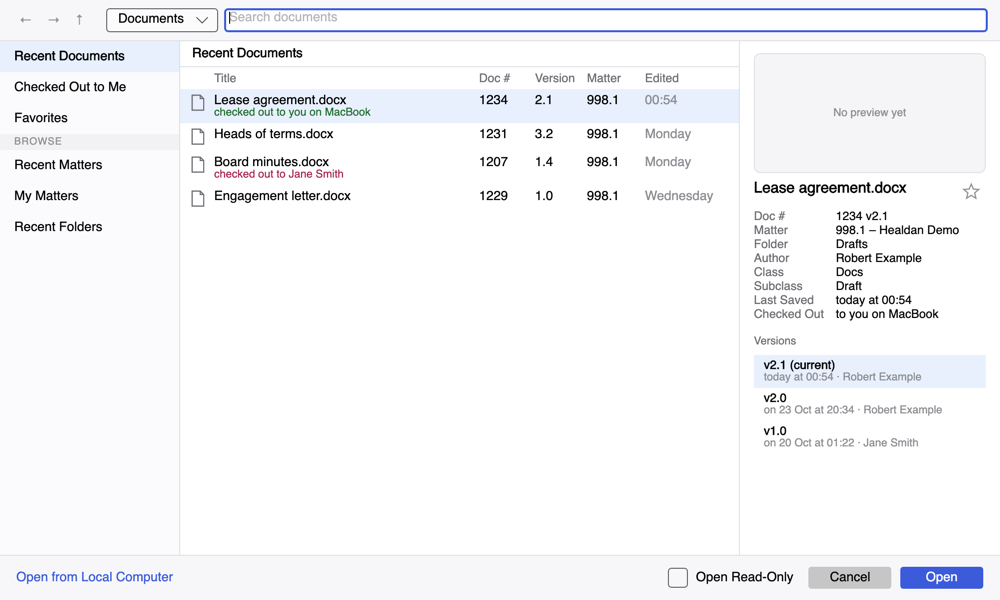
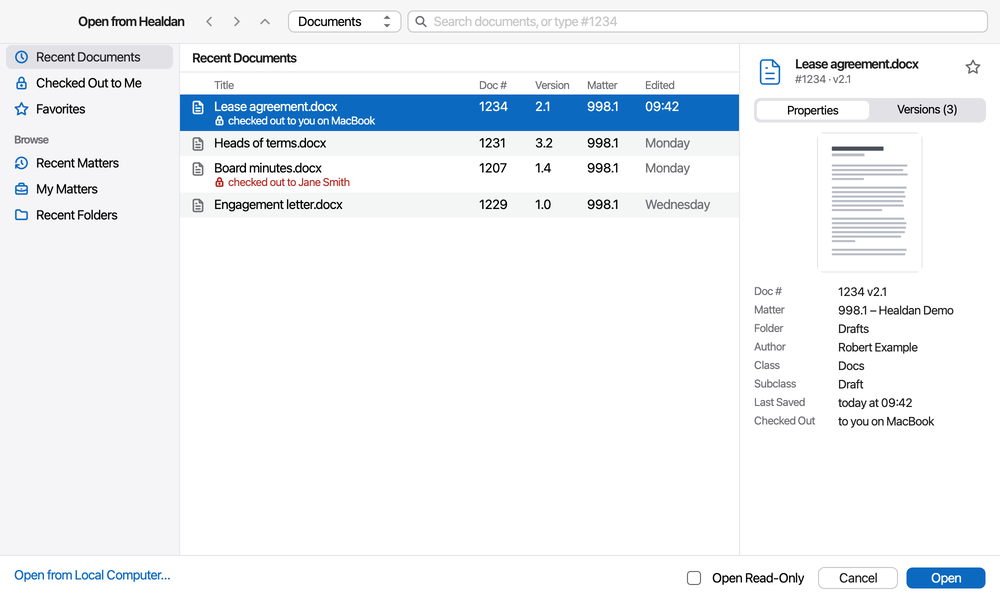
Document the helper's new look
The User Guide's seven pictures of the helper's windows are drawn again from
the polished windows (the light renders, halved to the site's 1x size as in
M3), with alt text for what they show now: the mark on Sign In and the alerts,
Settings' three groups, Open's details in Properties and Versions tabs, and
Save's File Format pop-up.

The pages say what changed in use. Installing the Helper explains the menu bar
icon's dot and Settings' Install… button. Opening Documents describes the new
details pane, the Older version warning, the doc # hint in the search box and
the ellipsis on Open from Local Computer…. Saving to Healdan calls the format
File Format and notes the matching ellipsis, and When Things Go Wrong says the
dot stays until you choose a crashed document.

The Developer Guide and CLAUDE.md say where the look lives (the style tokens,
Tabler's icons and the script that writes them, the menu bar icon drawn from
the mark) and which tests guard it (IconsTests, AttentionTests).

The plan's status and decision log record the calls made while building Tasks
1-9, the owner's decisions at the review, and the letter-spacing follow-up.

diff --git a/docs/superpowers/plans/2026-10-27-helper-ui-polish.md b/docs/superpowers/plans/2026-10-27-helper-ui-polish.md
@@ -17,7 +17,7 @@
 
 **Spec:** [`docs/superpowers/specs/2026-10-27-helper-ui-polish-design.md`](../specs/2026-10-27-helper-ui-polish-design.md), approved by the owner on 2026-10-27, with its mockups in [`2026-10-27-helper-polish-mockups/`](../specs/2026-10-27-helper-polish-mockups/). Every § below points into it. Where the two disagree, the spec wins, except for "Spec corrections and calls this plan makes".
 
-**Status:** written 2026-10-27; not started.
+**Status:** Tasks 1–9 built on 2026-10-27; PR 1 not yet opened.
 
 ## Global Constraints
 
@@ -2797,7 +2797,36 @@ Every call made while building, in order. "Where" is the task or review that rai
 
 | Date | Where | Decision | Why | Cost if wrong |
 |---|---|---|---|---|
+| 2026-10-27 | Task 1 | Tabler 3.50.0's 30 SVGs and its licence came from `cdn.jsdelivr.net/npm/@tabler/icons@3.50.0/`, with the owner's approval, not from `npm pack` | npm isn't installed here, and jsDelivr serves the npm package's own files | nothing: the files are byte-identical to the tarball's |
+| 2026-10-27 | Task 1 | Each commit's trailer names the model that did the work (subagents on Sonnet sign "Claude Sonnet 5.5"), not the plan's single trailer | accurate attribution matters more than one name on every commit | a reword if the owner wants one name |
+| 2026-10-27 | Task 1 | Every implementer runs `dotnet build clients/helper/Healdan.Helper.sln` as well as `dotnet test` | `dotnet test` doesn't compile the app project, which Task 1 found | nothing |
+| 2026-10-27 | Task 2 | Text inside a grey selection (the places list, the Versions pill, a rows list without focus) takes `HdTextBrush`, while icons keep their colours | keeps spec §4.1's AA promise without changing the approved tokens, and icons need only 3:1 | a style tweak if the owner prefers darker tokens instead |
+| 2026-10-27 | Task 2 | `App.axaml`'s two FluentTheme palette accents are the one place a hex colour may sit outside `HelperStyles.axaml` | Fluent's palette can't take a resource | nothing |
+| 2026-10-27 | Task 4 | The by-hand title bar check (Task 4, Step 11), and Task 2's check that the list's banding holds while it scrolls, move to Task 14 | subagents can't see the screen | a later fix if the unified title bar misbehaves; spec §13's fallback stands |
+| 2026-10-27 | Task 4 | The search box takes the toolbar's spare width (a star column, `MinWidth` 200) instead of a fixed 320 pt | spec §6.2 says "at least 200 pt", and the hint must be visible within a matter | a width tweak if the owner prefers Finder's fixed field |
+| 2026-10-27 | Task 4 | The scope pop-up sits next to the chevrons, with the search box filling the rest, instead of far right as in the mockup | the hint's visibility outweighs the mockup's spacing; raised for the owner's review in Task 9, which kept it (below) | a spacer and a `MaxWidth` if the owner prefers the mockup |
+| 2026-10-27 | Task 5 | Step 4's keyboard check moves to Task 14 with the other by-hand checks | subagents can't see the screen | a later fix if keyboard reach is broken |
+| 2026-10-27 | Task 5 | The details tabs handle Left and Right in a `KeyDown` handler that moves `SelectedIndex` | `UniformGrid` isn't a navigable container, so the arrow keys never reached Versions; the grid keeps the segments equal | a `NavigableUniformGrid` if a reviewer prefers it |
+| 2026-10-27 | Task 5 | The favourite star in the details header stays hidden until the document's details have loaded | restores how the window behaved before the task | nothing |
+| 2026-10-27 | Task 5 | New token `HdCautionTextBrush` (`#9A5B00` light, `#F5A623` dark) for Caution text, with `HdCautionBrush` kept for icons | amber text on the window needs a darker shade to meet AA, and icons need only 3:1; Task 13 adds it to spec §4.1's table | a colour tweak if the owner dislikes the darker amber |
+| 2026-10-27 | Task 6 | The calendar date picker is brought to the 22 pt field height | Task 6 owns Save's and Properties' forms, spec §4.3 sets 22 pt fields, and Task 2 had deferred it | a revert if the template resists |
+| 2026-10-27 | Task 6 | Read-only values (`SelectableTextBlock.value`) take `IsTabStop=false` and stay focusable, not `Focusable=false` | macOS's selectable labels aren't in the key-view loop. `Focusable=false` was the first ruling, but the implementer's test showed it loses keyboard copy, where `IsTabStop=false` keeps mouse selection, the context menu's Copy and Ctrl or Cmd+C | nothing |
+| 2026-10-27 | Task 7 | About's `VersionText` and `ServerText` also take `IsTabStop=false` | the same Tab-stop issue Task 6 fixed, and Task 7 owns About | nothing |
+| 2026-10-27 | Task 7 | Step 11 (Install… by hand) moves to Task 14 | subagents can't see the screen | a later fix if the wiring fails in the packaged app |
+| 2026-10-27 | Task 7 | About widens from 400 to 440 pt | its three links (Healdan Docs, the licence and Open-Source Notices) don't fit in a row at 400, and the spec gives no width | nothing |
+| 2026-10-27 | Task 7 | Settings' status dot gets two tokens, `HdOnBrush` (`#28A745` light, `#30D158` dark) and `HdOffBrush` (`#8E8E93` in both) | spec §4.1's table leaves the dot's colours to the builder, so they're listed here and not there | a colour tweak |
+| 2026-10-27 | Task 7 | Spec §6.6's "LogicalDOC's credit included" is an error: About keeps its copyright line unchanged | the helper's `About.Copyright` never had a LogicalDOC credit. It's the web GUI's (`HealdanCredits.java`), and the helper is Healdan's own .NET code. Task 13 corrects §6.6 | a credit line if the owner wants one |
+| 2026-10-27 | Task 8 | The by-hand menu bar check (Step 9) moves to Task 14, and the implementer renders the four icons headless instead | subagents can't see the screen | a later tweak of the dot's geometry |
+| 2026-10-27 | Task 8 | The attention dot sits at (226, 34) in the mark's 260-unit square, with a radius of 30 and a ring of 44, where the plan had (214, 46), 38 and 56 | the plan's ring cut the shield's shoulder and opened the back page in the renders; this one cuts the shoulder only. The plan allowed tuning | a retune after the owner's menu bar check in Task 14 |
+| 2026-10-27 | Task 9 | Task 9 splits at its owner gate: a subagent does Step 1 (the renderer's data and the renders), the controller runs Step 2 (the owner's review), and a second subagent does Steps 3–7 after approval. Step 8, the PR, waits for the owner's go-ahead | the owner's review can't be delegated | nothing |
+| 2026-10-27 | Task 9 | The clipped trailing "…" (Install…, Open from Local Computer…, Save to Local Computer…) is fixed before the owner's review, as its own fix with its own review | it was likely real on the Mac too (same Skia and font), and visible on three controls | one small commit |
+| 2026-10-27 | Task 9, ellipsis fix | One style turns `ClipToBounds` off for text blocks (`AccessText` and `SelectableTextBlock` included) and buttons (26e7a7232) | HarfBuzz lays San Francisco out at the font's default Display optical size (28), but Skia draws it through CoreText at Text size, so the glyph's ink runs about 1.7 pt past the box it was measured into. Avalonia 12 clips every `TextBlock` and templated control to its bounds, so the last dot of "…" was cut off. Nothing is laid out differently: across the 22 renders only the restored dots, and the odd last pixel column of a word, changed | the dots clip again if the style goes; the real Mac is only checked in Task 14 |
+| 2026-10-27 | Task 9, ellipsis fix | Text that used to be cut off at a fixed cell's edge now trims with "…" and keeps 4 pt clear of its neighbour (9e2bed4b9): Open's detail labels, its Doc #, Version and Matter cells, Save's Version and Doc # cells, and Settings' Address, whose value is now right-aligned in the star column and trimmed | with no clipping, text runs into the next cell. "Client Reference Number" (an administrator names a property) printed over its value, an 8-digit doc # over the Version, and a long host took all of the Address row. A 7-digit doc # still fits (51.4 pt in 52) | a width tweak if the 4 pt is wrong |
+| 2026-10-27 | Owner's review | The owner approved the after-renders of all ten windows, light and dark, with one change: Sign In's keychain line wrapped and left "password." alone, so it's capped at 300 pt and centred, and breaks as "…in the keychain," and "never your password." (8be87be0e) | the owner's call; the words and the size are unchanged | nothing |
+| 2026-10-27 | Owner's review | The scope pop-up stays beside the chevrons, as built | the owner accepted the hint's visibility over the mockup's spacing | a spacer and a `MaxWidth` |
+| 2026-10-27 | Owner's review | The letter spacing left by the optical-size mismatch above is a follow-up, not part of PR 1 | the owner's call at the review. It's in Follow-ups | nothing now |
+| 2026-10-27 | Task 9 | The docs' seven pictures are the light renders halved to the site's 1× size (420 to 1000 px wide), not the renderer's 2× files | the site's pictures were halved in M3 (its log, 2026-10-25), so each window shows at its real size in the page | 2× copies if the owner wants sharper pictures; no file name changes |
 
 ## Follow-ups
 
-None yet.
+- **Letter spacing in the helper's San Francisco type** (owner, at Task 9's review). HarfBuzz lays the font out at its default Display optical size (28) while Skia draws it at Text size, so the spacing doesn't match the glyphs drawn. The ellipsis fix (26e7a7232) stops the overhang clipping but leaves the spacing as it is. Look for a way to make layout and drawing agree (the font's optical-size axis, or another text-measuring path), and check the packaged app on the Mac in Task 14, since the renders and the app share Skia and the font.

diff --git a/site/content/user/office/installing-the-helper/index.md b/site/content/user/office/installing-the-helper/index.md
@@ -42,6 +42,9 @@ checked by Apple, so macOS doesn't warn about it otherwise.
 
 Healdan's icon appears in the menu bar. The helper has no Dock icon, and shows a window only when it needs you.
 
+A dot on the icon means the helper needs you: you're signed out, it couldn't start, a document closed unexpectedly, a
+copy is Not Yet in Healdan, or LibreOffice's extension isn't installed. Point at the icon to see which.
+
 ### Sign In
 
 The Sign In to Healdan window opens: see [The Sign In Window](#the-sign-in-window). Once you're signed in,
@@ -55,7 +58,7 @@ The helper for Ubuntu isn't ready yet. Until it is, Healdan works in LibreOffice
 
 ## The Sign In Window
 
-![The Sign In to Healdan window: Server Address https://healdan.example, empty Username and Password fields, and the Cancel and Sign In buttons](sign-in.png)
+![The Sign In to Healdan window: Healdan's mark above the title and a line saying the helper keeps a sign-in in the keychain, never your password; then Server Address https://healdan.example, empty Username and Password fields, and the Cancel and Sign In buttons](sign-in.png)
 
 Type the server's address, your username and your password, and choose **Sign In**.
 
@@ -124,18 +127,23 @@ Click Healdan's icon in the menu bar.
 
 ## Settings
 
-![The Healdan Helper Settings window: the server https://healdan.example, read-only; Documents, Spreadsheets and Presentations each opening in LibreOffice; Start at Sign-In on; and the LibreOffice extension's version](settings.png)
+![The Healdan Helper Settings window in three groups: Server, with the address healdan.example; Open Each Kind of File In, with Documents, Spreadsheets and Presentations, each with its file extensions and opening in LibreOffice; and This Computer, with Start at Sign-In On and the LibreOffice Extension's version and when it was installed](settings.png)
 
-- **Server:** the server the helper is signed in to. To use another, sign out, then sign in with its address.
-  Before you do, close your documents, and check the menu shows no saves waiting and nothing Not Yet in Healdan.
-  Any local copies left from the old server are moved to a folder of their own beside `Copies`, such as
-  `Copies from healdan.example`, and a notice says so. The helper never sends them to the new server, where the
-  same doc # can be a different document.
-- **Open Each Kind of File In:** documents, spreadsheets and presentations open in LibreOffice. Other files, such as
-  PDFs, open read-only in your Mac's usual app for them.
-- **Start at Sign-In:** after your first sign-in, the helper starts whenever you sign in to your Mac. To stop it,
-  turn it off in **System Settings › General › Login Items & Extensions**.
-- **LibreOffice Extension:** the version installed, or what to do to install it.
+Settings has three groups:
+
+- **Server:** the server the helper is signed in to, as its name, such as `healdan.example`. To use another, sign
+  out, then sign in with its address. Before you do, close your documents, and check the menu shows no saves waiting
+  and nothing Not Yet in Healdan. Any local copies left from the old server are moved to a folder of their own
+  beside `Copies`, such as `Copies from healdan.example`, and a notice says so. The helper never sends them to the
+  new server, where the same doc # can be a different document.
+- **Open Each Kind of File In:** a row each for documents, spreadsheets and presentations, with the file extensions
+  it covers. They open in LibreOffice. Other files, such as PDFs, open read-only in your Mac's usual app for them.
+- **This Computer:**
+  - **Start at Sign-In:** On or Off. After your first sign-in, the helper starts whenever you sign in to your Mac.
+    To stop it, turn it off in **System Settings › General › Login Items & Extensions**.
+  - **LibreOffice Extension:** the version installed, and when it was installed, or **Not Installed**. While the
+    extension isn't installed, **Install…** asks LibreOffice to add it, as the menu's **Install the LibreOffice
+    Extension…** does.
 
 ## About Healdan Helper
 
@@ -146,7 +154,7 @@ Choose **About Healdan Helper** in the helper's menu.
 - **Copy for Support** copies the helper's version, your Mac's, and the server with its version, as one line to
   paste into an email or an issue.
 - **Healdan Docs** opens these pages, and **Licence: GNU LGPL v3** the licence the helper is free software under.
-- **Open-Source Notices…** lists the open-source software the helper is built with, and each one's licence.
+- **Open-Source Notices** lists the open-source software the helper is built with, and each one's licence.
 
 ## Signing Out
 

diff --git a/site/content/user/office/opening-documents/index.md b/site/content/user/office/opening-documents/index.md
@@ -34,24 +34,32 @@ Double-clicking a document in the web page still shows its preview.
 Any of LibreOffice's ways of opening shows the **Open from Healdan** window: **⌘O**, **File › Open**, **Open File**
 in the Start Center, and **Healdan › Open from Healdan…**. So does **Open from Healdan…** in the helper's menu.
 
-![The Open from Healdan window: Recent Documents listed in the middle, Lease agreement.docx selected and checked out to you on MacBook, and its details, properties and versions on the right](open-from-healdan.png)
+![The Open from Healdan window: Recent Documents listed in the middle, Lease agreement.docx selected and checked out to you on MacBook, and its details on the right, under a header with its name, #1234 and v2.1, and Properties and Versions tabs, with Properties showing](open-from-healdan.png)
 
 - **On the left:** Recent Documents (where it starts), Checked Out to Me and Favorites, then Recent Matters, My
   Matters and Recent Folders to browse.
 - **In the middle:** each document's title, doc #, version, matter, and when it was last saved. Under the title,
   who has it checked out: "checked out to you on MacBook", or "checked out to Jane Smith".
-- **On the right:** a small preview of the first page ("No preview yet" until Healdan has made one), the main
-  properties, and the versions. The star adds the document to your Favorites, or takes it off.
+- **On the right:** the selected document's details. A header names it, with its doc # and version, as in
+  `#1234 · v2.1`. Its star adds the document to your Favorites, or takes it off. Two tabs sit under the header:
+  - **Properties,** where each Open window starts, shows a small preview of the first page, when Healdan has made
+    one, and the document's main properties.
+  - **Versions** lists the document's versions, the number of them in brackets.
+
+  The tab stays as you left it while you choose other documents. Before you choose a document, the pane asks you to.
 - **To find a document,** type in the search box: it searches documents, unless you choose another scope beside it.
-  `#1234` and Enter shows document 1234, and `#1234 v2.1` selects that version.
+  `#1234` and Enter shows document 1234, and `#1234 v2.1` selects that version. That's what the box's hint, ", or
+  type #1234", means. It shows while you search documents, but a typed doc # works from any scope.
 - **To open it,** double-click it, or select it and choose **Open**.
 
 At the bottom:
 
 - **Open Read-Only:** tick it, then choose **Open**, for a copy you can read but not save to Healdan, even if you
   could edit it.
-- **An older version** always opens read-only: choose it in the versions list.
-- **Open from Local Computer** shows LibreOffice's own Open box, for a file on your Mac.
+- **An older version** always opens read-only: choose **Versions** above the details, then the version in the list.
+  The header then shows that version, with the warning **Older version: opens read-only**, and Open Read-Only is
+  ticked for you. Choosing another document goes back to its current version.
+- **Open from Local Computer…** shows LibreOffice's own Open box, for a file on your Mac.
 
 ## What Happens When It Opens
 
@@ -79,7 +87,7 @@ instead, which files your changes as a new document (see
 
 If you have the document checked out on another of your computers, the helper asks first:
 
-![The Checked Out on Another Computer window: #1234 is checked out to you on MacBook (LibreOffice), when it was last saved to Healdan, a warning that edits on MacBook that haven't reached Healdan won't be in this copy, and the Open Read-Only, Edit Here Instead and Cancel buttons](checked-out-on-another-computer.png)
+![The Checked Out on Another Computer window: Healdan's mark with a warning triangle, then #1234 is checked out to you on MacBook (LibreOffice), when it was last saved to Healdan, a warning that edits on MacBook that haven't reached Healdan won't be in this copy, and the Open Read-Only, Edit Here Instead and Cancel buttons](checked-out-on-another-computer.png)
 
 - **Open Read-Only** opens a read-only copy here, and leaves the check-out where it is.
 - **Edit Here Instead** moves the check-out to this computer and opens the document for editing. What you saved on

diff --git a/site/content/user/office/saving-to-healdan/index.md b/site/content/user/office/saving-to-healdan/index.md
@@ -17,7 +17,7 @@ On a document that isn't in Healdan yet, any of these opens Save to Healdan:
 - **Healdan › Save to Healdan…**, or **Save to Healdan** on the Healdan toolbar;
 - **Save** when LibreOffice asks whether to save your changes as you close the document.
 
-![The Save to Healdan window: places on the left, matter 998.1 – Healdan Demo's Documents folder in the middle with its Drafts folder selected, and the new document's properties on the right, with OpenDocument Text (.odt) chosen as the format](save-to-healdan.png)
+![The Save to Healdan window: places on the left, matter 998.1 – Healdan Demo's Documents folder in the middle with its Drafts folder selected, and the new document's properties on the right, with a File Format pop-up under the properties showing OpenDocument Text (.odt)](save-to-healdan.png)
 
 ## Choosing a Folder
 
@@ -62,8 +62,8 @@ your bookmarks in the web page, apart from your matters, which are My Matters. S
 
 ## The Properties
 
-The right of the window holds the new document's properties, mostly filled in from the folder you chose. Required
-ones are marked with a red star.
+The right of the window, headed **New Document Properties**, holds the new document's properties, mostly filled in
+from the folder you chose. Required ones are marked with a red star.
 
 - **Name:** the document's name. It starts from the name LibreOffice gave it, or the file's name if it was saved on
   your Mac before. Healdan adds the extension.
@@ -77,9 +77,10 @@ ones are marked with a red star.
 
 See [Properties](../../working-with-matters/properties/) for what each one holds.
 
-## The Format
+## The File Format
 
-Below the properties, choose the file format. The app's own comes first, and is chosen until you change it:
+Below the properties, the **File Format** pop-up chooses the file format. The app's own comes first, and is chosen
+until you change it:
 
 | App | Its own format | The other |
 |---|---|---|
@@ -101,7 +102,7 @@ version: `Lease agreement #1235 v1.0`.
 
 ## Saving to Your Mac Instead
 
-**Save to Local Computer**, at the bottom left, shows LibreOffice's own Save As box instead. A document saved there
+**Save to Local Computer…**, at the bottom left, shows LibreOffice's own Save As box instead. A document saved there
 isn't in Healdan. Choose **Healdan › Save to Healdan…** whenever you want to file it.
 
 ## If It Doesn't Work

diff --git a/site/content/developer/desktop-clients.md b/site/content/developer/desktop-clients.md
@@ -35,6 +35,11 @@ app.
 - **`Healdan.Helper`** is the Avalonia 12 app: the menu-bar icon (`Tray/`), the windows (`Windows/`), and macOS's
   notifications, login item and extension install (`Platform/`). It stays out of the Dock (`LSUIElement`) and hands
   the focus back after each window.
+  - **The look** (polish spec, `docs/superpowers/specs/2026-10-27-helper-ui-polish-design.md`): the tokens and
+    control styles are in `Windows/HelperStyles.axaml`, over Fluent. The icons are Tabler's, in
+    `Windows/HelperIcons.axaml`, which `python3 clients/icons/write-helper-icons.py` writes from
+    `clients/icons/tabler/` (`IconsTests` fails until it's run). The menu bar icon is drawn at run time from
+    `HealdanMark`'s shapes (`Tray/TrayIcons.cs`).
 - **`Healdan.Helper.Core.Tests`** is xUnit.
 
 ### The Cycle
@@ -224,6 +229,9 @@ through `channel.json`, and quits.
   helper moves to a new .NET release.
 - **`MarkTests`** fail when About's mark, `Windows/HealdanMark.axaml`, and the docs site's `site/static/favicon.svg`
   draw different shapes.
+- **`IconsTests`** fail when `Windows/HelperIcons.axaml` and the SVGs in `clients/icons/tabler/` draw different
+  shapes. After adding or changing an icon, run `python3 clients/icons/write-helper-icons.py`.
+- **`AttentionTests`** pin when the menu bar icon shows its dot, and the reason its tooltip gives.
 - **The extension's tests** cover `healdan_logic.py` with fakes for LibreOffice, and build the `.oxt` and check that
   its files agree. A real LibreOffice isn't part of them.
 
@@ -241,7 +249,8 @@ the steps and the secrets.
 - **The icon,** `AppIcon.icns`, is Healdan's mark from the docs site's `site/static/favicon.svg` on macOS's rounded
   square. `clients/helper/packaging/mac/make-icon.swift` draws it each time `package.sh` runs, so changing the
   favicon changes the helper's icon too. About's mark is the same shapes in XAML, as Avalonia doesn't read SVG, and
-  `MarkTests` fails until it's redrawn.
+  `MarkTests` fails until it's redrawn. The menu bar icon follows the mark too: it's drawn at run time from
+  `HealdanMark`'s shapes, in one colour.
 - **The version** is the helper's own, from its tag. The helper checks `GET /server`'s `apiVersion`, and refuses a
   server whose API it doesn't speak.
 - **The login item:** after its first sign-in, the installed helper registers itself to start at sign-in, with

diff --git a/CLAUDE.md b/CLAUDE.md
@@ -152,6 +152,8 @@ Core's `plugin.xml` defines the extension points other plugins hook into: `DbIni
   - Put anything testable in `Healdan.Helper.Core`, which has no windows and which `Healdan.Helper.Core.Tests` drives, and the extension's logic in `healdan_logic.py`, which the tests run without LibreOffice.
   - On macOS the helper never runs `unopkg`, which can't install the extension there: it opens its `.oxt` in LibreOffice for the user to accept.
   - The helper's macOS icon is the docs site's `site/static/favicon.svg` on macOS's rounded square, which `clients/helper/packaging/mac/make-icon.swift` draws each time `package.sh` runs. Changing the favicon changes it too, and fails `MarkTests` until About's mark (`Windows/HealdanMark.axaml`) is redrawn.
+  - The menu bar icon is the same mark, drawn in one colour at run time from `HealdanMark`'s shapes (`Tray/TrayIcons.cs`), so it follows the favicon with About's mark.
+  - The helper's icons are Tabler's, in `clients/icons/tabler/`. `python3 clients/icons/write-helper-icons.py` writes `HelperIcons.axaml` from them, and `IconsTests` fails until it's run after an icon is added or changed.
   - `clients/helper/Healdan.Helper/THIRD-PARTY-NOTICES.txt` is About's Open-Source Notices. `NoticesTests` fails when its `Packages:` lines and the packages the helper restores differ, ids and versions both, so a package added or moved needs its notice.
 - **`HealdanHooks`** (`logicaldoc-core/.../core/HealdanHooks.java`, fork-owned) lets CE code that bypasses the listeners call Healdan before it writes. Examples are the JDBC restores, `deleteTree` and `applySecurityToTree`, and the moves, renames, updates, merges and copies that write before a listener could refuse. `healdan-core` registers the implementation.
   - Every Healdan veto throws `HealdanVetoException` or a subclass. The document and folder DAOs roll back on it alone; a plain `PersistenceException` still commits.

diff --git a/site/content/user/office/when-things-go-wrong/index.md b/site/content/user/office/when-things-go-wrong/index.md
@@ -37,12 +37,13 @@ Start **Healdan Helper** from your Applications folder.
 The document stays checked out to you, and your local copy is kept as you last saved it. Within about ten seconds of
 LibreOffice going, or as soon as the helper starts after your Mac restarts, this window opens:
 
-![The crash window: Lease agreement #1234 v2.1 closed unexpectedly. It's still checked out to you, and your local copy is kept. With the Send and Check In and Reopen buttons](after-a-crash.png)
+![The crash window: Healdan's mark with a warning triangle, and the headline Lease agreement #1234 v2.1 closed unexpectedly. It's still checked out to you, and your local copy is kept. With the Send and Check In and Reopen buttons](after-a-crash.png)
 
 - **Reopen** opens your kept copy, with what you last saved, and carries on as before.
 - **Send and Check In** sends what Healdan hasn't had yet, and checks the document in.
 - **Closing the window** decides nothing: the document stays in the helper's menu, marked "(closed unexpectedly)",
-  until you choose it, which reopens it.
+  until you choose it, which reopens it. The helper's icon in the menu bar shows a dot until you choose the
+  document.
 
 A read-only copy has nothing to lose: the window says so, and offers **Remove Copy**.
 

diff --git a/site/content/user/office/editing-and-versions/index.md b/site/content/user/office/editing-and-versions/index.md
@@ -67,7 +67,7 @@ Choose where it goes, change what you need to, and save. Then:
 Choose **Healdan › Properties…**, or **Properties** on the Healdan toolbar, to see or change the document's
 properties without leaving LibreOffice. They're the properties of the Ext. Properties tab in the web page.
 
-![The Properties window for #1234: Client / Matter 998.1 – Healdan Demo from the matter, Author and Typist, Class and Subclass from Drafts, Comments, and two more properties, with Cancel and Save](properties.png)
+![The Properties window for #1234: a header with the document's icon, Lease agreement.docx, and #1234 · v2.1, then Client / Matter 998.1 – Healdan Demo from the matter, Author and Typist, Class and Subclass from Drafts, Comments, and two more properties, with Cancel and Save](properties.png)
 
 - **Save** stores your changes in Healdan straight away. It's on once something has changed.
 - **If you may not edit the document,** the properties are shown read-only.
